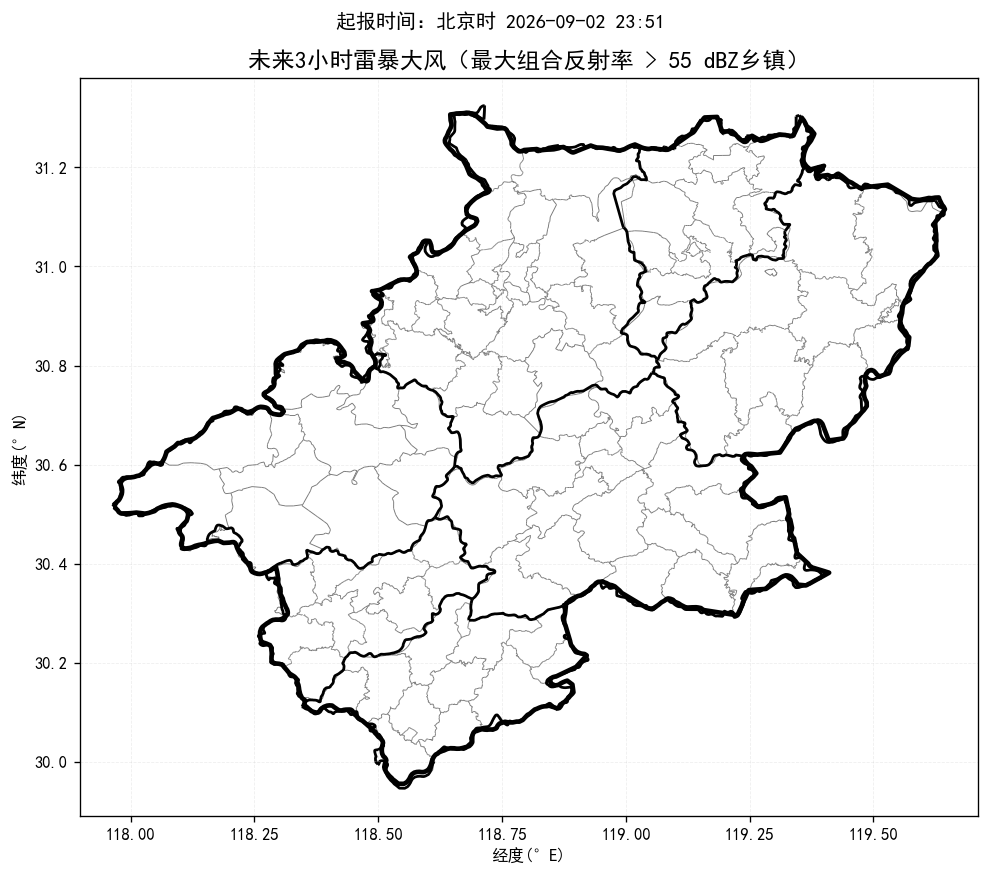
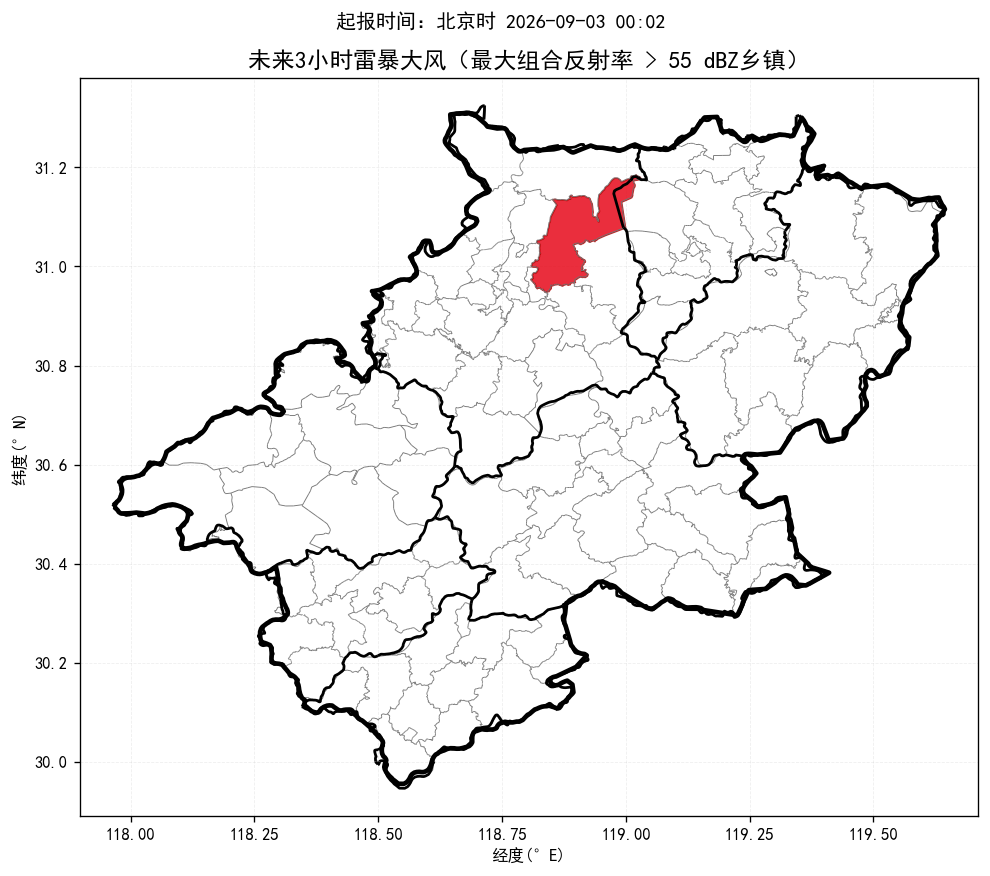
update nowcast products

Changed region(s): [[0.5152, 0.1849, 0.6364, 0.339], [0.6061, 0.0, 0.6667, 0.0308]]

diff --git a/index.html b/index.html
@@ -14,14 +14,14 @@ img.product{display:block;width:100%;height:auto;margin:10px auto 26px;border:1p
 .footer{font-size:13px;color:#777;text-align:center;margin-top:30px}
 @media(max-width:700px){.sheet{margin:0;padding:18px 15px}.alert-title{font-size:22px}.county-line{font-size:17px}.prob{font-size:18px}}
 </style></head><body><main class="sheet">
-<div class="time">起报时间：北京时 2026-09-02 23:51</div>
+<div class="time">起报时间：北京时 2026-09-03 00:02</div>
 <div class="alert-title">未来一小时降水量超过 20 毫米的乡镇：</div><div class="county-line">无</div>
 <div class="alert-title">未来三小时降水量超过 50 毫米的乡镇：</div><div class="county-line">无</div>
-<div class="alert-title">未来三小时雷暴大风（组合反射率 > 55 dBZ）的乡镇：</div><div class="county-line">无</div>
-<div class="prob">最大降水量概率预估：宣城市范围内未来三小时降水偏小，最大预报约15.8毫米，暂不进行50/80/100毫米概率预估。</div>
-<div class="section-title">未来降水预报图：</div><img class="product auto-refresh-product" data-src="短临降水预报.png" src="短临降水预报.png?v=20260902235711" alt="未来降水预报图">
-<div class="section-title">未来三小时组合反射率图：</div><img class="product auto-refresh-product" data-src="未来3小时组合反射率.png" src="未来3小时组合反射率.png?v=20260902235711" alt="未来三小时组合反射率图">
-<div class="section-title">未来三小时雷暴大风图：</div><img class="product auto-refresh-product" data-src="未来3小时雷暴大风.png" src="未来3小时雷暴大风.png?v=20260902235711" alt="未来三小时雷暴大风图">
+<div class="alert-title">未来三小时雷暴大风（组合反射率 > 55 dBZ）的乡镇：</div><div class="county-line">宣州区：沈村镇</div>
+<div class="prob">最大降水量概率预估：宣城市范围内未来三小时降水偏小，最大预报约19.4毫米，暂不进行50/80/100毫米概率预估。</div>
+<div class="section-title">未来降水预报图：</div><img class="product auto-refresh-product" data-src="短临降水预报.png" src="短临降水预报.png?v=20260903000832" alt="未来降水预报图">
+<div class="section-title">未来三小时组合反射率图：</div><img class="product auto-refresh-product" data-src="未来3小时组合反射率.png" src="未来3小时组合反射率.png?v=20260903000832" alt="未来三小时组合反射率图">
+<div class="section-title">未来三小时雷暴大风图：</div><img class="product auto-refresh-product" data-src="未来3小时雷暴大风.png" src="未来3小时雷暴大风.png?v=20260903000832" alt="未来三小时雷暴大风图">
 <div class="footer">三张产品图每 60 秒自动刷新一次；每次请求自动附加新的URL参数以绕过缓存。</div>
 <script>
 (function() {
